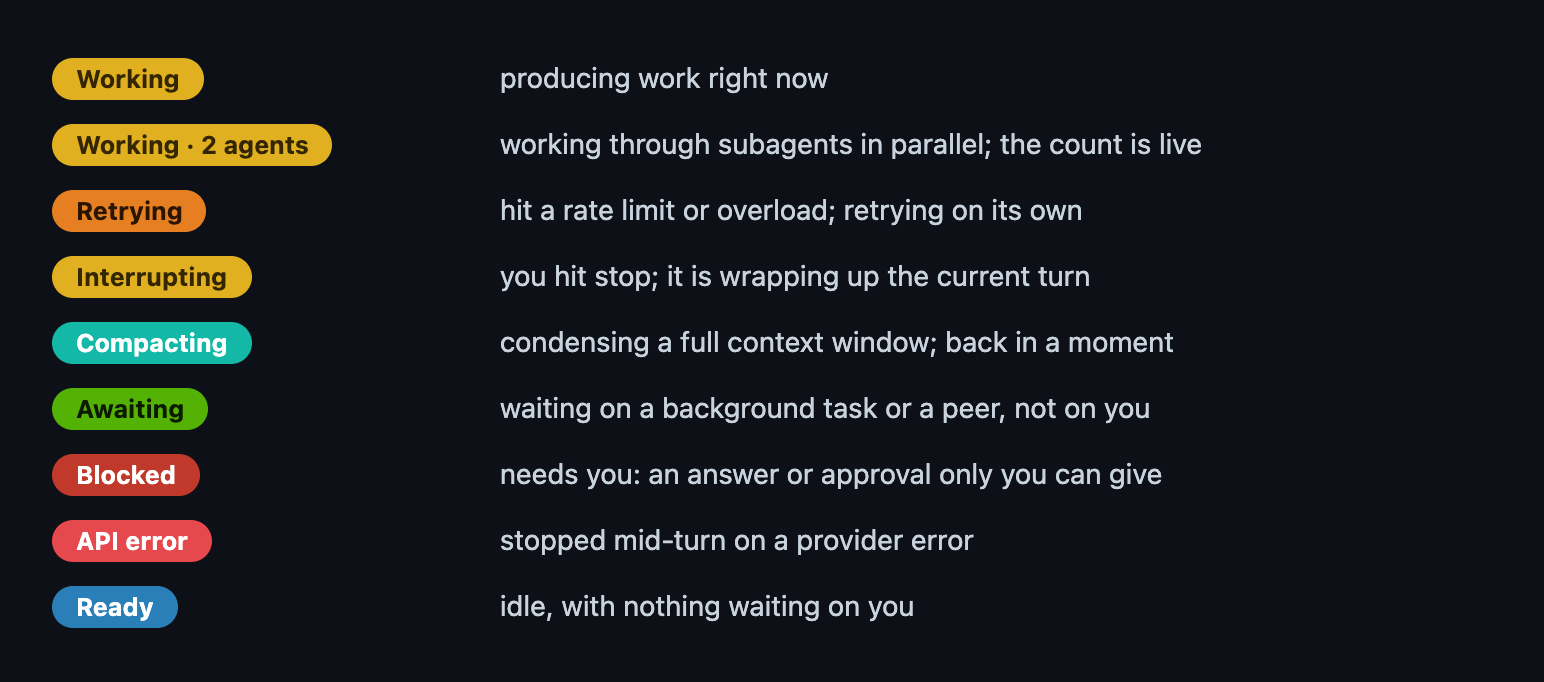
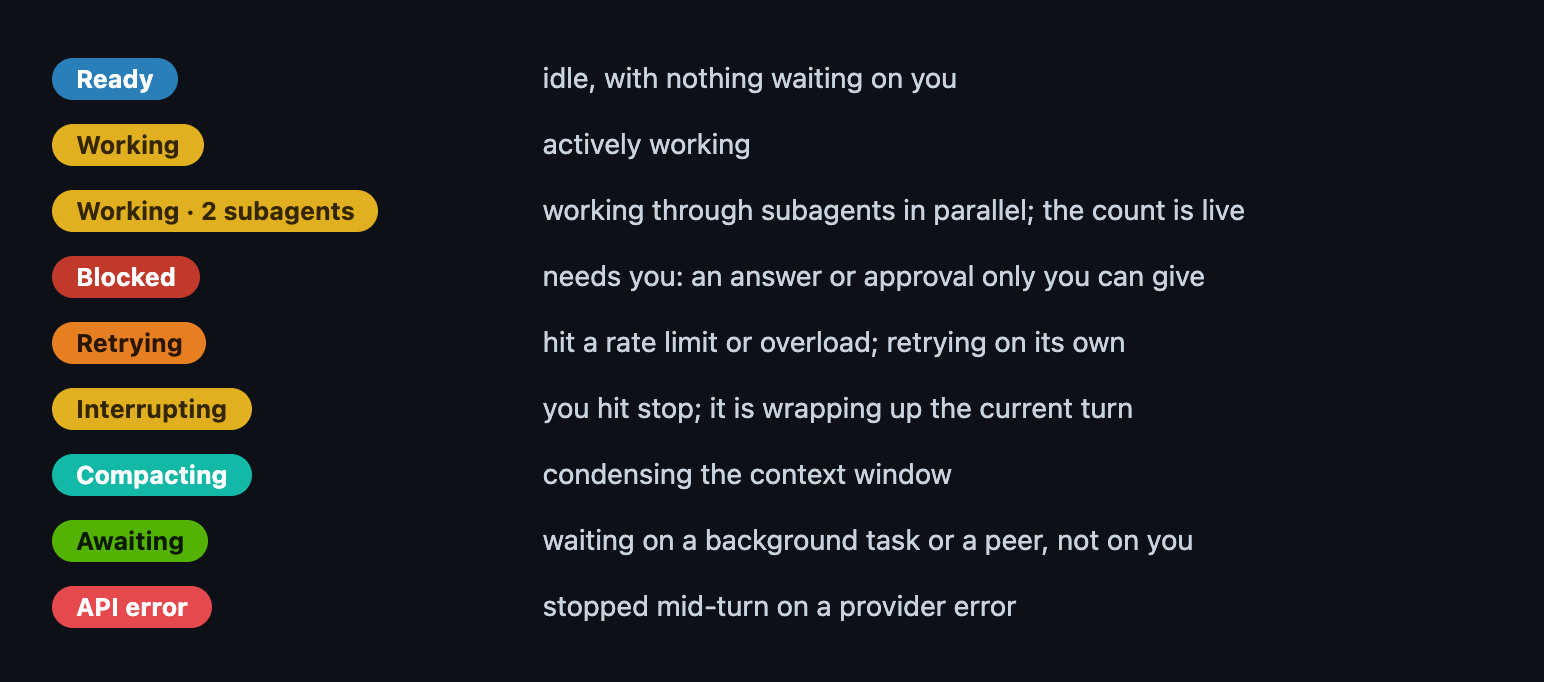
Docs: sentence-level pass, subagent label, lazy-loaded clips
Prose, following the user's notes:
- Home: split "where Romp runs" into the two halves a reader can actually
  place, the dashboard (browser, editor extension, phone) and the part that
  drives the agents (laptop, server, several machines).
- Install: name ~/romp/bin as the reason to open a new terminal; move what-it-
  installs to its own paragraph behind the detail link; rename "Installing by
  hand" to manual and custom installs, opening with why you'd want one and
  offering the release or the latest commit.
- First run: the installer starts the back end, you open the front end; drop
  the two-ways-to-reach-a-remote enumeration, which romp launch already prints.
- Guide: intro covers using Romp and how its back end works; the four views
  drop the "each answering a different question" framing they never delivered.
  Chat section is now just its figure. Feed drops the title-is-the-gist line,
  names the Sub-goals button, and gives clearing its own paragraph. Timeline
  says row/bar/circle, and the legend follows a plain "Session statuses:".
- Nudges: lead with why agents stall, then what Romp injects and the guarantee
  it buys. Awaiting drops the surface-by-surface enumeration.

Legend figure: Ready, Working, Working+subagents, Blocked first, since those
are the three a reader meets; Working is "actively working", Compacting is
"condensing the context window".

The timeline's working badge now reads "Working · 2 subagents". The session
[…]

diff --git a/docs/javascripts/lazyvideo.js b/docs/javascripts/lazyvideo.js
@@ -1,0 +1,47 @@
+// Play each demo clip only while it is on screen.
+//
+// The home page carries five clips. With a plain `autoplay`, a browser fetches
+// every one of them the moment the page opens, so a phone on a slow link pays
+// for the whole page before it can read the first paragraph. The markup instead
+// sets preload="none" and marks the clip with data-romp-autoplay; nothing is
+// fetched until this script starts it, which happens as it scrolls into view.
+// Clips pause on the way out, so a background tab is not decoding video either.
+//
+// Without JavaScript the clips still render with their controls, so pressing
+// play works.
+function rompWireVideos() {
+  // Skip clips already wired, so running twice on one page costs nothing.
+  var vids = document.querySelectorAll("video[data-romp-autoplay]:not([data-romp-wired])");
+  if (!vids.length) return;
+  vids.forEach(function (v) { v.setAttribute("data-romp-wired", ""); });
+
+  var play = function (v) { var p = v.play(); if (p && p.catch) p.catch(function () {}); };
+
+  if (!("IntersectionObserver" in window)) {
+    vids.forEach(play);   // no observer: fall back to the old always-on behavior
+    return;
+  }
+
+  // The margin starts a clip just before it reaches the viewport, so it is
+  // already running by the time it is fully in view.
+  var io = new IntersectionObserver(function (entries) {
+    entries.forEach(function (e) {
+      if (e.isIntersecting) play(e.target);
+      else e.target.pause();
+    });
+  }, { rootMargin: "250px 0px" });
+
+  vids.forEach(function (v) { io.observe(v); });
+}
+
+// Instant navigation swaps the page body without a reload, so rewire per navigation.
+if (typeof document$ !== "undefined") document$.subscribe(rompWireVideos);
+
+// Wire the first page directly too. document$ only emits once Material's own
+// bundle has initialized, and when that fails the clips would otherwise sit
+// dead with no way to start them.
+if (document.readyState === "loading") {
+  document.addEventListener("DOMContentLoaded", rompWireVideos);
+} else {
+  rompWireVideos();
+}

diff --git a/ui/timeline-subagents.test.ts b/ui/timeline-subagents.test.ts
@@ -12,8 +12,9 @@ const SRC = fs.readFileSync(path.resolve(process.cwd(), "..", "ui", "romp-timeli
 test("the WORKING badge appends the live Task-subagent count when there are any", () => {
   // reads the count off the session's live `subagents` array (threaded by the kernel from the SDK snapshot)
   assert.match(SRC, /s\.subagents && s\.subagents\.length/);
-  // singular/plural, appended to the Working label like Compacting's " 40%"
-  assert.match(SRC, /'Working · ' \+ n \+ \(n === 1 \? ' agent' : ' agents'\)/);
+  // singular/plural, appended to the Working label like Compacting's " 40%". "subagent", not "agent":
+  // the session itself is the agent, and these are the Task-spawned children under it (the user 2026-07-24).
+  assert.match(SRC, /'Working · ' \+ n \+ \(n === 1 \? ' subagent' : ' subagents'\)/);
   // blank suffix when none → the badge stays a plain "Working"
   assert.match(SRC, /n \? 'Working · '[\s\S]*?: 'Working'/);
 });

diff --git a/ui/romp-timeline-view.js b/ui/romp-timeline-view.js
@@ -278,7 +278,7 @@ function badgeFor(s) {
     // Live Task-subagent count (SDK only) rides the WORKING badge —
     // so "what's actually running" is glanceable, the transparency the tmux backend never had. Blank when none.
     const n = (s.subagents && s.subagents.length) || 0;
-    m = { label: n ? 'Working · ' + n + (n === 1 ? ' agent' : ' agents') : 'Working', kind: 'working' };
+    m = { label: n ? 'Working · ' + n + (n === 1 ? ' subagent' : ' subagents') : 'Working', kind: 'working' };
   }
   else if (s.state === 'retrying') m = { label: 'Retrying', kind: 'retrying' };   // amber, distinct from the red BLOCKED — a soft API-retry stall (api 2026-06-23)
   // the lane state IS the chat chip now (the kernel's shared _session_chip, the user 2026-07-03) — the

diff --git a/docs/guide.md b/docs/guide.md
@@ -1,31 +1,23 @@
 # Guide
 
-This guide covers what Romp puts on screen and what it does with your sessions:
-the views, the task cards, the nudges that keep agents moving, and the messaging
-between them.
+This guide covers how to use Romp, and how its back end works.
 
 ## The Romp UI
 
-Romp gathers all your Claude Code sessions into a single dashboard you can watch
-and steer. You see it through four views, each answering a different question:
+Romp gathers all your Claude Code sessions into a single dashboard, with four
+complementary views of what the agents are doing:
 
-- **[The chat](#the-chat)** is the normal way of talking to a coding agent, but
-  easier to scan: tool calls fold away and expand only when you want them.
-- **[The feed](#the-feed)** shows Romp's task-management layer: Romp analyzes
-  each session's transcript, breaks the work into tasks, and shows each task as
-  a card. One session can produce several, and agents can hand tasks off to one
-  another.
-- **[The timeline](#the-timeline)** shows what each session has been doing over
-  time and how they have been coordinating; click any part to jump to that
-  moment in the chat.
+- **[The chat](#the-chat)** is the regular interface for talking to a coding
+  agent, with features that make a long session easier to scan.
+- **[The feed](#the-feed)** is Romp's task-management layer: what is in
+  progress, what needs your input, and what is done.
+- **[The timeline](#the-timeline)** is the history of what each session worked
+  on and how they coordinated; click any part to jump to that moment in the
+  chat.
 - **[The outline](#the-outline)** lists every session with its tasks, for
   reviewing what a session has done and searching across all of them.
 
 ### The chat
-
-The same conversation you would have in the terminal, only easier to scan: tool
-calls fold into runs so a long session stays legible, and you expand a run for
-its calls, or a call for its full input and output, when you want it.
 
 ![Tool calls fold into runs; each expands to one line per call](assets/guide/chat-detail.png){ width="100%" }
 
@@ -43,28 +35,28 @@ Cards sit in three columns:
 
 ![The feed's three columns, with the cues on a card](assets/guide/feed-annotated.png){ width="100%" }
 
-The title is the gist. **Background** is why the agent is taking this action.
-**Summary** is what it did. Sub-tasks nest beneath when the work splits.
+**Background** is why the agent is taking the action, and **Summary** is what it
+did. When a task divides naturally into parts, the card's **Sub-goals** button
+opens them.
 
-Cards follow the work rather than the session: a session that interleaves
-several efforts gets a card per effort, and one effort handed across sessions
-stays a single card. Summaries favor the latest stretch of work, so a card you
-return to after hours away tells you what changed since you last looked.
-**Clear** a card when you are done with it; cleared cards are archived.
+Cards follow the work rather than the session: one session can hold several
+tasks, and a task can be handed from one session to another.
+
+**Clear** a card when you are done with it. A cleared card is archived, and no
+more work is added to it.
 
 ### The timeline
 
-Each lane is one session. A line is the session working, and a circle on it is a
-message you sent. A striped stretch means the session is blocked, waiting on
-your input.
+Each row is one session. A bar is a stretch where the session was working, and a
+circle is a message you sent. A striped stretch means the session is blocked,
+waiting on your input.
 
 ![A timeline lane per session, with status and context at the left](assets/guide/timeline-annotated.png){ width="100%" }
 
 Click a bar or a message marker to jump straight to where it happened in the
 chat.
 
-A session wears the same color for its state everywhere it appears: its tab, its
-timeline lane, its cards.
+Session statuses:
 
 ![Each session state and what its color means](assets/guide/status-legend.png){ width="70%" }
 
@@ -78,10 +70,10 @@ find past work: the search box reaches every session, live or closed.
 
 ## Automatic nudges
 
-To keep agents moving forward whenever your input isn't needed, Romp nudges a
-stalled session back to its open work: when it hit an API error, when it was
-interrupted, or when it simply stopped with a task still open and never said
-whether the task was done.
+Agents stall: they hit an API error, they get interrupted, or they end a turn
+leaving it ambiguous whether a task is done. Romp nudges a stalled session with
+an injected message, so every task ends up either explicitly done or explicitly
+needing your input.
 
 Romp asks the agent, item by item, where each open piece stands: continue what
 it can, and say what blocks the rest.
@@ -90,17 +82,14 @@ it can, and say what blocks the rest.
 - If something needs you, the card flips to **Blocked** and names exactly what
   it needs.
 
-Nudging holds off while you are actively driving a session, and it re-arms only
-after a real turn ends, so it never talks over you and never loops on its own
-messages.
+Nudging engages only when you are not actively messaging the session, so it
+never talks over you and never loops on its own messages.
 
-A session can also be waiting on something that is not you. When it dispatches
-work and pauses for the result, it shows an <span class="romp-chip-await">Awaiting</span>
-chip on the fleet rail, on the chat statusline above the message box, and on its
-timeline lane, where the pending stretch is drawn faded. Awaiting never means it
-needs you: it means the work is in flight until what the session sent for comes
-back. The chip clears on the session's next turn, when the task finishes or
-blocks, when you clear the card, or as soon as you reply.
+A session can also be waiting on something unrelated to you: it dispatches work
+into the background, then pauses for the result. In that case it shows an
+<span class="romp-chip-await">Awaiting</span> chip. The chip clears on the
+session's next turn, when the task finishes or blocks, when you clear the card,
+or as soon as you reply.
 
 ## Messaging between agents (the Romp Postal Service)
 
@@ -112,7 +101,7 @@ to talk to instead of messaging each other to find out.
 
 The timeline draws an arc for each message. Hover one for its gist:
 
-<video src="../assets/guide/coordination.mp4" controls autoplay loop muted playsinline width="100%"></video>
+<video src="../assets/guide/coordination.mp4" controls loop muted playsinline preload="none" data-romp-autoplay width="100%"></video>
 
 The recipient sees it in its chat, with the sender and the kind on the card:
 

diff --git a/docs/index.md b/docs/index.md
@@ -16,11 +16,11 @@ together. *You* stay focused on what you're trying to accomplish.
 Romp is built on top of Claude Code: the agents Romp manages are ordinary
 sessions, gathered into one live dashboard.
 
-Where Romp runs and how you open it are both up to you. Run it on your laptop,
-on a server, or across [several machines at once](guide.md#attaching-another-machine):
-agents on different machines message each other, and you steer them all from one
-place. Open the dashboard in a browser, on [a phone](guide.md#your-phone), or in
-the VS Code / Cursor extension.
+You control where each half of Romp lives. The dashboard opens in a browser, in
+the VS Code / Cursor extension, or on [a phone](guide.md#your-phone). The part
+that drives the agents runs on your laptop, on a server, or on [several machines
+at once](guide.md#attaching-another-machine): agents on different machines
+message each other, and you steer them all from one place.
 
 Its key features:
 
@@ -31,28 +31,28 @@ Its key features:
 
 The timeline shows every session: what's running, what's idle, and what needs you.
 
-<video src="assets/guide/every-session-timeline.mp4" controls autoplay loop muted playsinline width="100%"></video>
+<video src="assets/guide/every-session-timeline.mp4" controls loop muted playsinline preload="none" data-romp-autoplay width="100%"></video>
 
 ## Task management { .feature-h }
 
 Romp reads the agents' transcripts and tracks the work, so you don't have to.
 
-<video src="assets/guide/task-cards.mp4" controls autoplay loop muted playsinline width="100%"></video>
+<video src="assets/guide/task-cards.mp4" controls loop muted playsinline preload="none" data-romp-autoplay width="100%"></video>
 
 A card shows each task with the essential information: why the work is
 happening, what the agent did, and the sub-tasks completed along the way.
 
-<video src="assets/guide/context-tabs.mp4" controls autoplay loop muted playsinline class="romp-card-demo"></video>
+<video src="assets/guide/context-tabs.mp4" controls loop muted playsinline preload="none" data-romp-autoplay class="romp-card-demo"></video>
 
 ## Coordination you can see { .feature-h }
 
 The Romp Postal Service lets agents ask each other questions and hand off work.
 
-<video src="assets/guide/coordination.mp4" controls autoplay loop muted playsinline width="100%"></video>
+<video src="assets/guide/coordination.mp4" controls loop muted playsinline preload="none" data-romp-autoplay width="100%"></video>
 
 ## Navigate anywhere, detail on demand { .feature-h }
 
 Find any work by when it happened on the timeline or by the task it belonged
 to, then open it for the full detail.
 
-<video src="assets/guide/navigate.mp4" controls autoplay loop muted playsinline width="100%"></video>
+<video src="assets/guide/navigate.mp4" controls loop muted playsinline preload="none" data-romp-autoplay width="100%"></video>

diff --git a/docs/install.md b/docs/install.md
@@ -17,19 +17,22 @@
 curl -fsSL https://raw.githubusercontent.com/romp-on/romp/main/bootstrap.sh | bash
 ```
 
-This clones Romp to `~/romp`, checks out the newest release, runs the
-installer, and adds `bin/` to your shell rc. Open a new terminal afterwards so
-the `romp` command is on your `PATH`. To update later, run it again; it moves
-you to the newest release.
+Open a new terminal afterwards, so `~/romp/bin` is on your `PATH` and the `romp`
+command works. To update later, run the same command again.
 
-### Installing by hand
+This clones Romp to `~/romp` and installs the newest release.
+[What it installs, in detail](architecture.md#what-the-installer-sets-up).
 
-If you would rather read the script first, or already have a clone:
+### Manual and custom installs
+
+Install this way to keep Romp somewhere other than `~/romp`, or to run the
+latest commit rather than the newest release:
 
 ```bash
 git clone https://github.com/romp-on/romp.git ~/romp
 cd ~/romp
 git checkout "$(git tag -l 'v*' --sort=-v:refname | head -n1)"   # newest release
+# or:   git checkout main                                        # the latest commit
 ./install.sh
 ```
 
@@ -40,12 +43,10 @@ line for your clone.
 export PATH="$PATH:$HOME/romp/bin"
 ```
 
-[What it installs, in detail](architecture.md#what-the-installer-sets-up).
-
 ## First run
 
-The installer starts Romp and keeps it running, so the dashboard is already
-live. Open it in a browser or in your editor.
+The installer starts Romp's back end automatically and keeps it running. To
+connect to it, open the front end in your browser or in your editor.
 
 ### In a browser
 
@@ -53,19 +54,17 @@ live. Open it in a browser or in your editor.
 romp launch
 ```
 
-This opens the dashboard and prints the same link. The link carries an access
-token, which the kernel requires on every request. The first open trades the
-token for a cookie, so plain `http://127.0.0.1:7433/` works from then on.
+This opens the dashboard using an access token. The first open trades the token
+for a cookie, so `http://127.0.0.1:7433/` works from then on.
 
 On a remote machine, `romp launch` prints the link rather than opening a
-browser, along with the two ways to reach it from your laptop: attach the host
-from your dashboard, or forward the port over ssh.
+browser, along with how to reach it from your laptop.
 
 ### In VS Code or Cursor
 
-The installer adds the extension. Reload your editor window and open Romp from
-the sidebar.
+The installer adds the extension automatically. Reload your editor window and
+open Romp from the sidebar.
 
 ### Start a session
 
-<video src="../assets/guide/first-session.mp4" controls autoplay loop muted playsinline width="100%"></video>
+<video src="../assets/guide/first-session.mp4" controls loop muted playsinline preload="none" data-romp-autoplay width="100%"></video>
